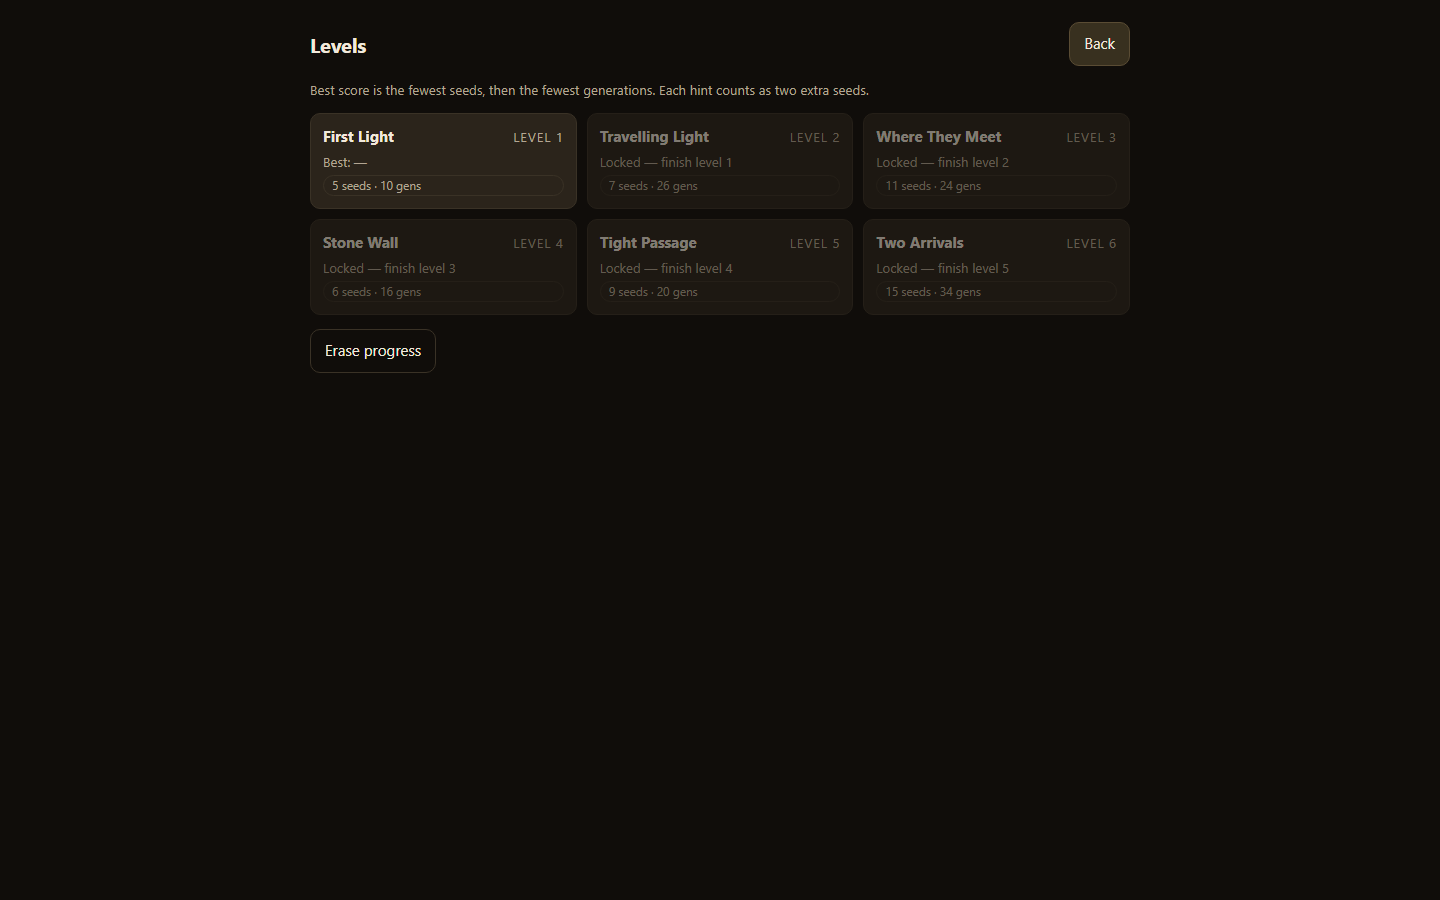
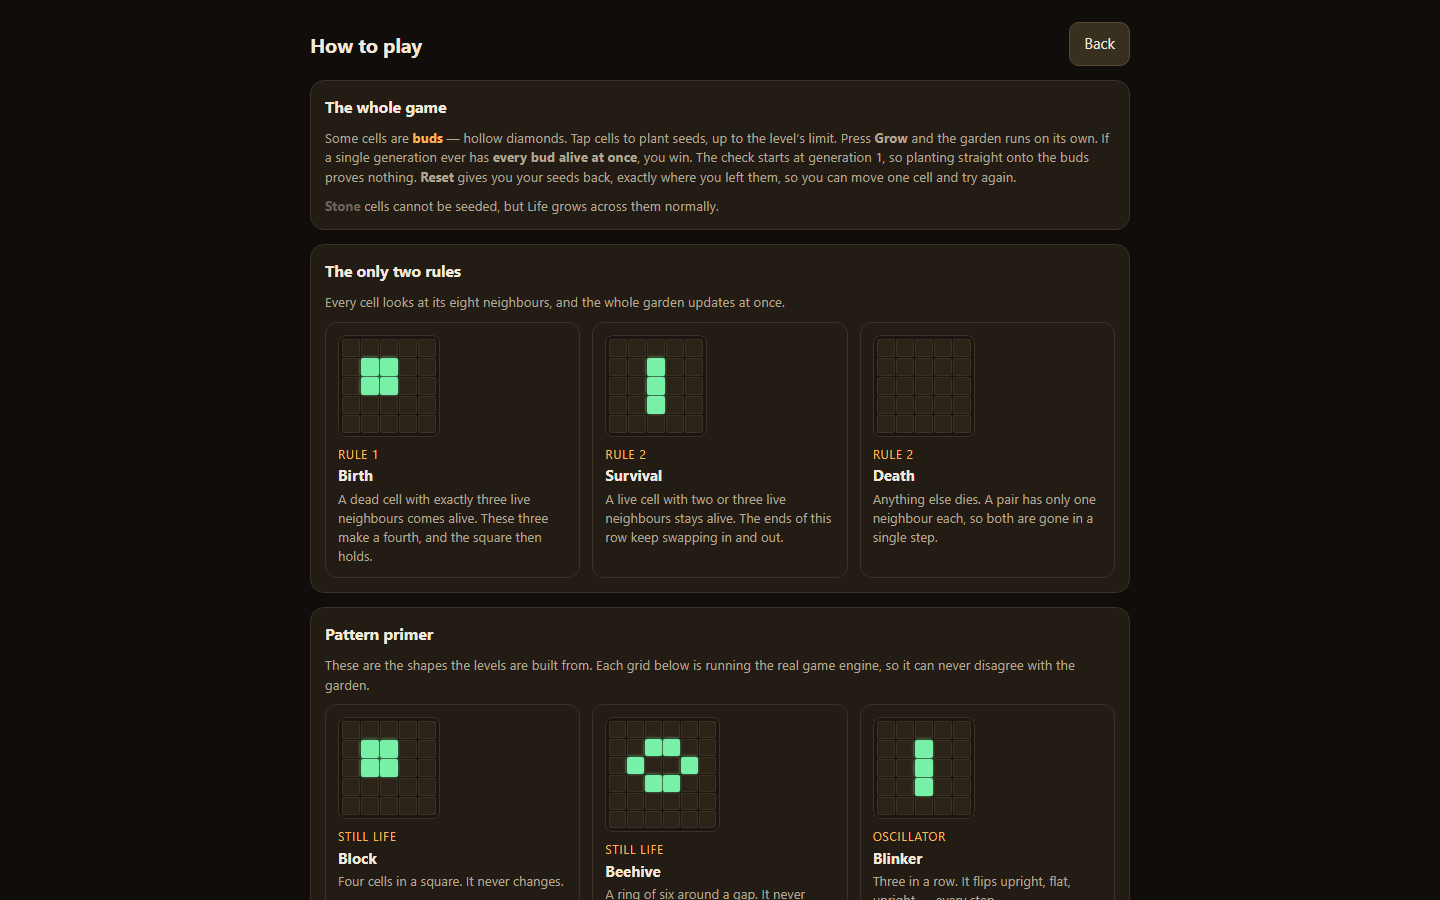
Add SUBMISSION.md: form answers ready to paste, plus a fresh pre-flight
The terms require the entrant to fill the form in themselves, so this stages
everything rather than submitting.

diff --git a/FINAL/SUBMISSION.md b/FINAL/SUBMISSION.md
@@ -1,0 +1,88 @@
+# Submission sheet — Bloom
+
+**You have to fill the form in yourself.** Rule 4 of the terms: *"Vyplnění soutěžního formuláře musí
+proběhnout samostatně bez pomoci jiných osob."* — the form must be completed independently, without help
+from anyone else. It also wants your own contact details. So this page is everything ready to paste; the
+submitting is yours.
+
+Form: https://docs.google.com/forms/d/e/1FAIpQLSfUiIbd515AAsc9NG3x_ryi9anWXzoKD0pJFQEomQ/viewform
+Deadline: **7 September 2026.**
+
+---
+
+## Files to upload
+
+| | path |
+|---|---|
+| **prompt.md** | `scc2026/FINAL/bloom/prompt.md` — 9 580 characters |
+| **index.html** | `scc2026/FINAL/bloom/index.html` — 53 707 bytes |
+
+Upload these two exactly as they are. Do not open them in an editor and save.
+
+---
+
+## "Název AI agenta, použitý tooling, verze modelu a případné další nastavení"
+
+Paste:
+
+> **Agent:** Claude Code (Anthropic), spuštěný v desktopové aplikaci Claude.
+> **Model:** claude-opus-5
+> **Tooling:** pouze vestavěné nástroje Claude Code pro práci se soubory a shellem. Hra vznikla v jediném
+> běhu podřízeného agenta, jehož celým vstupem byl odevzdaný prompt, v prázdném adresáři, bez jakéhokoli
+> dalšího lidského zásahu po spuštění.
+> **Nastavení:** výchozí. Žádná úprava teploty, žádný vlastní systémový prompt, žádné MCP servery ani
+> pluginy. Agent nepoužil síť.
+> **Délka generování:** 51 minut, 139 volání nástrojů — v rámci šedesátiminutového limitu.
+> **Platforma:** Windows 11, agentovi byl k dispozici Node 22 a Python 3.13.
+
+---
+
+## "Krátký popis aplikace a její funkcionality"
+
+Paste (the long version with an English translation is in `description.md`):
+
+> **Bloom** je logická hra postavená na Conwayově Hře života. Na mřížce je označeno několik **poupat**.
+> Dostaneš omezený počet semínek — méně, než by se hodilo — a rozsadíš je, kam chceš. Pak stiskneš
+> **Grow** a zahrada se rozběhne podle pravidel Hry života. Vyhráváš ve chvíli, kdy je v jedné jediné
+> generaci naživu **každé poupě zároveň**. Po zasetí už do zahrady nezasáhneš; celá hra je v tom, kam
+> semínka umístíš.
+>
+> Šest úrovní se stoupající obtížností, každá navržená pozpátku z ověřeného semínka, takže je zaručeně
+> řešitelná. Kamenná políčka nelze osít, ale do života se počítají. Aby hra nebyla nesrozumitelná pro
+> někoho, kdo Hru života nezná, obsahuje **slovníček vzorů** — blok, blinker, kluzák a další, každý jako
+> malá mřížka animovaná přímo herním enginem, takže se nemůže rozejít s pravidly hry. Je dostupný z
+> nápovědy i jedním klepnutím během hraní, a každá úroveň navíc rovnou pojmenuje vzor, který po hráči
+> chce.
+>
+> Když dojde limit generací, hra neřekne jen „prohrál jsi“, ale ohlásí nejlepší okamžik — například
+> „3 ze 4 poupat v generaci 11“. Reset vrátí zahradu do stavu po zasetí, semínka zůstanou, takže stačí
+> posunout jedno políčko. Nápověda odhalí jedno políčko referenčního řešení za bodovou srážku.
+>
+> Celá aplikace je v jediném souboru `index.html`. Otevře se v běžném prohlížeči přímo z disku — bez
+> instalace, buildu, serveru a bez připojení k internetu. Veškerá grafika je vykreslená kódem, žádné
+> obrázky ani externí fonty. Funguje myší, dotykem i klávesnicí, respektuje `prefers-reduced-motion` a
+> zůstane plně hratelná i tehdy, když prohlížeč zakáže `localStorage` — jen se neuloží nejlepší výsledky.
+
+---
+
+## Pre-flight, run just now
+
+| check | result |
+|---|---|
+| prompt ≤ 10 000 characters | 9 580 ✓ |
+| prompt contains no source code, no base64, no data URIs | ✓ |
+| `index.html` byte-identical to the raw agent run | ✓ |
+| prompt is the one that produced this build | ✓ |
+| never hand-edited since it was generated | ✓ |
+| loads from `file://` in standards mode (`CSS1Compat`) | ✓ |
+| console errors and warnings | none |
+| no remote URLs, no ES modules, no `fetch`/XHR/WebSocket | ✓ |
+| no horizontal scroll at 320 / 375 / 1440 px | ✓ |
+| playable with `localStorage` throwing | ✓ |
+| automated checks | 24/25 — the only miss is `single_file`, which counts `prompt.md` sitting next to it in this folder |
+
+## Last thing
+
+**Play it once yourself before you upload.** This build has no blind judgement behind it — it was made
+after you said the game was hard to grasp, and whether the primer actually fixes that is a question of
+feel, not of checklists. Open `bloom/index.html`, press Play, and see whether level 1 gets you moving.
